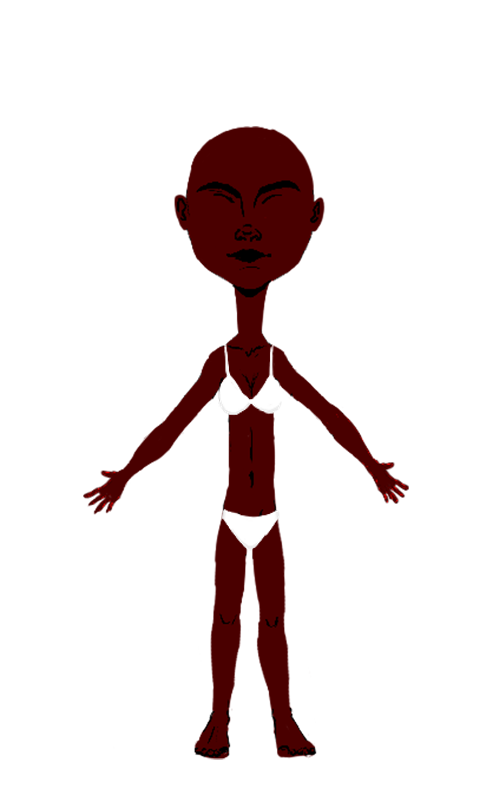
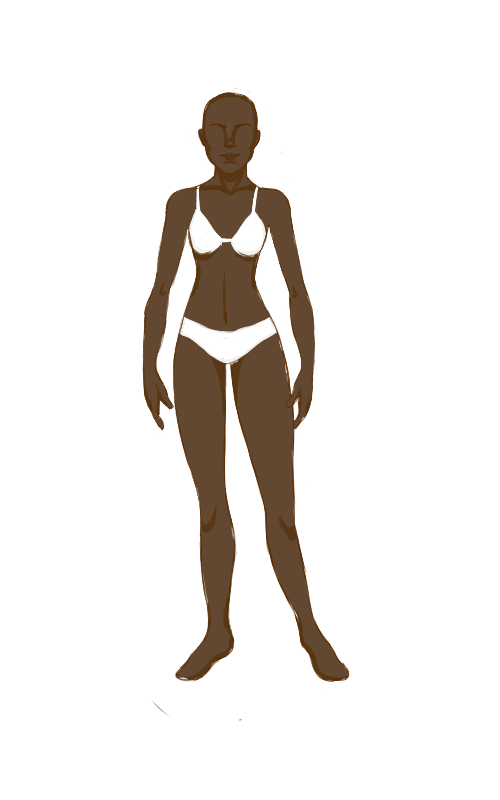
Add files via upload

Changed region(s): [[0.15, 0.0938, 0.81, 0.9688]]

diff --git a/public/js/regpage.js b/public/js/regpage.js
@@ -1,152 +1,48 @@
-const canvas = document.getElementById("myCanvas");
-const ctx = canvas.getContext("2d");
-male = false;
-female = false;
+var stage = new createjs.Stage("myCanvas");
 
 
-
-function saveCanvas() {
-ctx.save();
-}
-
-function loadCanvas() {
-    ctx.restore();
-}
+function makeChar() {   
 
 
-function makeChar() {
-    img = document.getElementById("femcharwhite");
-    ctx.drawImage(img, 0, 0);
     document.getElementById("famormale").style.visibility = "visible";
     document.getElementById("makefem").style.visibility = "visible";
     document.getElementById("makemale").style.visibility = "visible";
 }
 
-function makeMale() {
-    ctx.clearRect(0, 0, 500, 800);
-    img = document.getElementById("malecharwhite");
-    ctx.drawImage(img, 0, 0);
-    document.getElementById("race").style.visibility = "visible";
-    document.getElementById("makeeuro").style.visibility = "visible";
-    document.getElementById("makemongo").style.visibility = "visible";
-    document.getElementById("makenegro").style.visibility = "visible";
-    male = true;
-    female = false;
+
+function makeMale(){
+   stage.clear("myCanvas");
+   var bitmap = new createjs.Bitmap("./data/nomi0_avatar_male_white_big.png");
+   
+   stage.addChild(bitmap);
+   stage.update();
+
+
+   document.getElementById("race").style.visibility = "visible";
+   document.getElementById("makeeuro").style.visibility = "visible";
+   document.getElementById("makemongo").style.visibility = "visible";
+   document.getElementById("makenegro").style.visibility = "visible";
+
 }
 
 function makeFemale() {
-    ctx.clearRect(0, 0, 500, 800);
-    img = document.getElementById("femcharwhite");
-    ctx.drawImage(img, 0, 0);
-    document.getElementById("race").style.visibility = "visible";
-    document.getElementById("makeeuro").style.visibility = "visible";
-    document.getElementById("makemongo").style.visibility = "visible";
-    document.getElementById("makenegro").style.visibility = "visible";
-    female = true;
-    male = false;
+   stage.clear("myCanvas");
+   var bitmap = new createjs.Bitmap("./data/nomi0_avatar_female_white_big_size.png");
+   
+   stage.addChild(bitmap);
+   stage.update();
+   document.getElementById("race").style.visibility = "visible";
+   document.getElementById("makeeuro").style.visibility = "visible";
+   document.getElementById("makemongo").style.visibility = "visible";
+   document.getElementById("makenegro").style.visibility = "visible";
+   
 }
 
-
-function makeEuro() {
-
-   if (male === true) {
-    ctx.clearRect(0, 0, 500, 800);
-    img = document.getElementById("malecharwhite");
-    ctx.drawImage(img, 0, 0);
-    document.getElementById("eyecolor").style.visibility = "visible";
-     document.getElementById("makeblueeye").style.visibility = "visible";
-     document.getElementById("makegreeneye").style.visibility = "visible";
-     document.getElementById("makebrowneye").style.visibility = "visible";
-     document.getElementById("makeasiaeye").style.visibility = "visible";
-
-   }
-
-   else {
-    ctx.clearRect(0, 0, 500, 800);
-    img = document.getElementById("femcharwhite");
-    ctx.drawImage(img, 0, 0);
-    document.getElementById("eyecolor").style.visibility = "visible";
-     document.getElementById("makeblueeye").style.visibility = "visible";
-     document.getElementById("makegreeneye").style.visibility = "visible";
-     document.getElementById("makebrowneye").style.visibility = "visible";
-     document.getElementById("makeasiaeye").style.visibility = "visible";
-
-   }
-}
 
 function makeMongo() {
-
-    if (male === true) {
-     ctx.clearRect(0, 0, 500, 800);
-     img = document.getElementById("malecharmongo");
-     ctx.drawImage(img, 0, 0);
-     document.getElementById("eyecolor").style.visibility = "visible";
-     document.getElementById("makeblueeye").style.visibility = "visible";
-     document.getElementById("makegreeneye").style.visibility = "visible";
-     document.getElementById("makebrowneye").style.visibility = "visible";
-     document.getElementById("makeasiaeye").style.visibility = "visible";
-
-    }
- 
-    else {
-     ctx.clearRect(0, 0, 500, 800);
-     img = document.getElementById("femcharmongo");
-     ctx.drawImage(img, 0, 0);
-     document.getElementById("eyecolor").style.visibility = "visible";
-     document.getElementById("makeblueeye").style.visibility = "visible";
-     document.getElementById("makegreeneye").style.visibility = "visible";
-     document.getElementById("makebrowneye").style.visibility = "visible";
-     document.getElementById("makeasiaeye").style.visibility = "visible";
- 
-    }
- }
-
- function makeNegro() {
-
-    if (male === true) {
-     ctx.clearRect(0, 0, 500, 800);
-     img = document.getElementById("malecharnegro");
-     ctx.drawImage(img, 0, 0);
-     document.getElementById("eyecolor").style.visibility = "visible";
-     document.getElementById("makeblueeye").style.visibility = "visible";
-     document.getElementById("makegreeneye").style.visibility = "visible";
-     document.getElementById("makebrowneye").style.visibility = "visible";
-     document.getElementById("makeasiaeye").style.visibility = "visible";
-    }
- 
-    else {
-     ctx.clearRect(0, 0, 500, 800);
-     img = document.getElementById("femcharnegro");
-     ctx.drawImage(img, 0, 0);
-     document.getElementById("eyecolor").style.visibility = "visible";
-     document.getElementById("makeblueeye").style.visibility = "visible";
-     document.getElementById("makegreeneye").style.visibility = "visible";
-     document.getElementById("makebrowneye").style.visibility = "visible";
-     document.getElementById("makeasiaeye").style.visibility = "visible";
- 
-    }
- }
-
- function makeBlueeye() {
-    img = document.getElementById("blueeye");
-    ctx.drawImage(img, 0, 0);
-
- }
-
- function makeGreeneye() {
-    img = document.getElementById("greeneye");
-    ctx.drawImage(img, 0, 0);
-
- }
-
- function makeBrowneye() {
-    img = document.getElementById("browneye");
-    ctx.drawImage(img, 0, 0);
-
- }
-
- function makeAsiaeye() {
-    img = document.getElementById("asiaeye");
-    ctx.drawImage(img, 0, 0);
-
- }
+   stage.clear("myCanvas");
+   var bitmap = new createjs.Bitmap("./data/nomi0_avatar_female_yellow_big_size.png");
+   
+   stage.addChild(bitmap);
+   stage.update();
+}

diff --git a/public/index.html b/public/index.html
@@ -9,6 +9,9 @@
     <script src="https://ajax.googleapis.com/ajax/libs/jquery/3.3.1/jquery.min.js"></script>
     <script src="https://cdnjs.cloudflare.com/ajax/libs/popper.js/1.12.9/umd/popper.min.js"></script>
     <script src="https://maxcdn.bootstrapcdn.com/bootstrap/4.0.0/js/bootstrap.min.js"></script>
+    <script src="https://code.createjs.com/1.0.0/createjs.min.js"></script>
+
+
     
 		<title>Nomi0 Chat</title>
 	</head>
@@ -27,14 +30,22 @@
 <img src="data/logo.png" ><img>
 <h1>Coming 2021...</h1>
     </div>
-  
+  <br>
+  <div class="container">
+    <h2>Nutzernamen reservieren <span class="badge badge-secondary">Bald verfügbar!</span></h2>
+    <div class="form-group">
+      <label for="usr">Nutzername</label>
+      <input type="text" id="resName"  class="form-control" id="usr" maxlength="16" placeholder="Bald verfügbar." data-toggle="tooltip" title="Maximal 16 Zeichen (Buchstaben, Zahlen, Sonderzeichen: - . _ % ! ? *)">
+    </div>
+  </div>
     
     <br>
       <br>
       <br>
       <br>
       <br>
-   
+
+      
     <div class="container" >
       <h2>Anmelden</h2>
       
@@ -56,19 +67,18 @@
       <button type="button" class="btn btn-primary btn-lg" onclick="makeChar()">Neuen Nomio erstellen</button> 
       <br>
       <h4 id="famormale" style="visibility: hidden;">Bist du männlich oder weiblich? :)</h4>
-      <button id="makefem" type="button" class="btn btn-primary btn-lg" style="visibility: hidden;" onclick="makeMale(),saveCanvas()">Männlich</button>
-      <button id="makemale" type="button" class="btn btn-primary btn-lg" style="visibility: hidden;" onclick="makeFemale(),saveCanvas()">Weiblich</button>
+      <button id="makefem" type="button" class="btn btn-primary btn-lg" style="visibility: hidden;" onclick="makeMale()">Männlich</button>
+      <button id="makemale" type="button" class="btn btn-primary btn-lg" style="visibility: hidden;" onclick="makeFemale()">Weiblich</button>
       <br>
       <h4 id="race" style="visibility: hidden;">Wie sieht es um deinen ethnischen Hintergrund aus? :3</h4>
-      <button id="makeeuro" type="button" class="btn btn-primary btn-lg" style="visibility: hidden;" onclick="makeEuro(),saveCanvas()">Europide</button>
-      <button id="makemongo" type="button" class="btn btn-primary btn-lg" style="visibility: hidden;" onclick="makeMongo(),saveCanvas()">Mongolide</button>
-      <button id="makenegro" type="button" class="btn btn-primary btn-lg" style="visibility: hidden;" onclick="makeNegro(),saveCanvas()">Negroide</button>
+      <button id="makeeuro" type="button" class="btn btn-primary btn-lg" style="visibility: hidden;" onclick="makeEuro()">Europide</button>
+      <button id="makemongo" type="button" class="btn btn-primary btn-lg" style="visibility: hidden;" onclick="makeMongo()">Mongolide</button>
+      <button id="makenegro" type="button" class="btn btn-primary btn-lg" style="visibility: hidden;" onclick="makeNegro()">Negroide</button>
       <br>
       <h4 id="eyecolor" style="visibility: hidden;">Sehr schön, welche Augenfarbe hast du? c:</h4>
-      <button id="makeblueeye" type="button" class="btn btn-primary btn-lg" style="visibility: hidden;" onclick="makeBlueeye()">Blau</button>
-      <button id="makegreeneye" type="button" class="btn btn-primary btn-lg" style="visibility: hidden;" onclick="makeGreeneye()">Grün</button>
-      <button id="makebrowneye" type="button" class="btn btn-primary btn-lg" style="visibility: hidden;" onclick="makeBrowneye()">Braun</button>
-      <button id="makeasiaeye" type="button" class="btn btn-primary btn-lg" style="visibility: hidden;" onclick="makeAsiaeye()">Braune Mandelauegn</button>
+      <button id="makeblueeye" type="button" class="btn btn-primary btn-lg" style="visibility: hidden;" onclick="makeBlueeye(),loadCanvas()">Blau</button>
+      <button id="makegreeneye" type="button" class="btn btn-primary btn-lg" style="visibility: hidden;" onclick="makeGreeneye(),loadCanvas()">Grün</button>
+      <button id="makebrowneye" type="button" class="btn btn-primary btn-lg" style="visibility: hidden;" onclick="makeBrowneye(),loadCanvas()">Braun</button>
 <div style="text-align: center;">
 <canvas id="myCanvas" width="500" height="800" style="border:1px solid #d3d3d3;" >Hier ist was schief gelaufen...</canvas>
 </div>
@@ -178,15 +188,22 @@
     src="data/nomi0_avatar_male_brown_big.png" >
     <img id="femcharnegro" style="visibility: hidden;" width="500" height="800"
     src="data/nomi0_avatar_female_brown_big_size.png" >
-    <img id="blueeye" style="visibility: hidden;" width="500" height="800"
-    src="data/Augen_blau.png" >
-    <img id="greeneye" style="visibility: hidden;" width="500" height="800"
-    src="data/Augen_grun.png" >
-    <img id="browneye" style="visibility: hidden;" width="500" height="800"
-    src="data/Augen_braun.png" >
-    <img id="asiaeye" style="visibility: hidden;" width="500" height="800"
-    src="data/Augen_asia_braun.png" >
+    <img id="feblueeye" style="visibility: hidden;" width="500" height="800"
+    src="data/feyesblue.png" >
+    <img id="fegreeneye" style="visibility: hidden;" width="500" height="800"
+    src="data/feyesgreen.png" >
+    <img id="febrowneye" style="visibility: hidden;" width="500" height="800"
+    src="data/feyesbrown.png" >
 
   </body>
+  
+  
+  <script
+  src="https://cdnjs.cloudflare.com/ajax/libs/qs/6.9.2/qs.min.js"
+  integrity="sha256-TDxXjkAUay70ae/QJBEpGKkpVslXaHHayklIVglFRT4="
+  crossorigin="anonymous"
+></script>
+<script src="/socket.io/socket.io.js"></script>
   <script src="/js/regpage.js"></script>
+  
 </html>

diff --git a/server.js b/server.js
@@ -21,7 +21,6 @@ const botName = 'Jeff ';
 
 
 
-
 // Run when client connects
 io.on('connection', socket => {
   socket.on('joinRoom', ({ username, room }) => {
@@ -74,6 +73,15 @@ io.on('connection', socket => {
 });
 
 
+/// test
+
+
+
+
+
+
+
+
 
 
 
@@ -81,3 +89,6 @@ io.on('connection', socket => {
 const PORT = process.env.PORT || 3000;
 
 server.listen(PORT, () => console.log(`Server running on port ${PORT}`));
+
+
+
